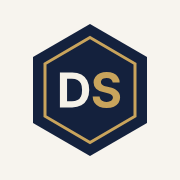
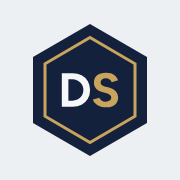
Bring design changes to the site
Source commit: ef3cd87

diff --git a/assets/styles.css b/assets/styles.css
@@ -3,9 +3,11 @@
   --ink-soft: #3A4660;
   --brass: #C9A45C;
   --brass-deep: #A8843F;
-  --paper: #F7F4EE;
-  --line: #DDD5C4;
-  --sans: "Inter", "Helvetica Neue", Arial, sans-serif;
+  --brass-text: #7A5E23;
+  --paper: #EDF0F3;
+  --paper-raised: #F5F7F9;
+  --line: #CCD3DC;
+  --sans: "Figtree", "Helvetica Neue", Arial, sans-serif;
 }
 
 * { box-sizing: border-box; }
@@ -19,10 +21,15 @@ body {
 }
 img, svg { display: block; max-width: 100%; }
 a { color: inherit; }
+::selection { background: var(--brass); color: var(--ink); }
+:focus-visible { outline: 2px solid var(--ink); outline-offset: 3px; }
+h1, h2, h3, .lede { text-wrap: balance; }
+html { scrollbar-color: var(--line) var(--paper); }
+@media (prefers-reduced-motion: reduce) { * { transition: none !important; } }
 
 .wrap { max-width: 1120px; margin: 0 auto; padding: 0 24px; }
 section { padding: 100px 0; }
-.eyebrow { font-size: .78rem; letter-spacing: .22em; text-transform: uppercase; color: var(--brass-deep); font-weight: 600; margin: 0 0 20px; }
+.eyebrow { font-size: .78rem; letter-spacing: .22em; text-transform: uppercase; color: var(--brass-text); font-weight: 600; margin: 0 0 20px; }
 .eyebrow a { text-decoration: none; }
 
 /* Home: logo, contact, projects link */
@@ -33,7 +40,7 @@ section { padding: 100px 0; }
   position: relative; overflow: hidden; z-index: 0;
 }
 
-.home .logo { width: min(420px, 86vw); height: auto; }
+.home .logo { width: min(640px, 90vw); height: auto; }
 .home footer { position: absolute; bottom: 24px; left: 0; right: 0; font-size: .75rem; color: var(--ink-soft); }
 .home footer a { text-decoration: none; }
 
@@ -42,6 +49,10 @@ section { padding: 100px 0; }
 .links { display: flex; flex-direction: column; align-items: center; gap: 16px; font-size: 1rem; text-align: center; }
 .links a, .links span { text-decoration: none; letter-spacing: .02em; }
 .item { color: var(--ink); }
+button.item { background: none; border: 0; border-bottom: 1px solid var(--line); font: inherit; letter-spacing: .02em; cursor: pointer; padding: 0 0 2px; }
+.contact-out { font-size: .95rem; color: var(--ink-soft); }
+.contact-out:empty { display: none; }
+.tagline { margin: 28px 0 0; color: var(--ink-soft); font-size: 1.05rem; text-wrap: balance; }
 .item.is-link { border-bottom: 1px solid var(--line); padding-bottom: 2px; transition: border-color .2s; }
 .item.is-link:hover { border-color: var(--brass); }
 .page-contact { padding-bottom: 72px; }
@@ -52,45 +63,34 @@ section { padding: 100px 0; }
 
 /* Projects */
 .page-head { display: flex; align-items: center; justify-content: space-between; padding-top: 28px; padding-bottom: 28px; border-bottom: 1px solid var(--line); }
-.page-head img { width: 180px; height: auto; }
-.page-head a.back { font-size: .78rem; font-weight: 600; letter-spacing: .22em; text-transform: uppercase; color: var(--brass-deep); text-decoration: none; }
-.page-title { font-weight: 600; font-size: clamp(2rem, 4.5vw, 2.6rem); margin: 0 0 40px; letter-spacing: -.02em; }
+.page-head img { width: 260px; height: auto; }
+.page-head a.back { font-size: .78rem; font-weight: 600; letter-spacing: .22em; text-transform: uppercase; color: var(--brass-text); text-decoration: none; }
+.page-title { line-height: 1.15; font-weight: 600; font-size: clamp(2rem, 4.5vw, 2.6rem); margin: 0 0 40px; letter-spacing: -.02em; }
 .projects-list { display: grid; grid-template-columns: repeat(auto-fill, minmax(min(320px, 100%), 1fr)); gap: 24px; }
-.project { background: #F9F7F2; border: 1px solid var(--line); padding: 28px; }
+.project { background: var(--paper-raised); border: 1px solid var(--line); padding: 28px; }
 .project h2 { font-weight: 600; font-size: 1.2rem; margin: 0 0 8px; letter-spacing: -.01em; }
 .project p { margin: 0 0 14px; color: var(--ink-soft); font-size: .95rem; }
 .project-link { display: flex; flex-direction: column; text-decoration: none; color: inherit; transition: border-color .2s; }
-.project-link .more { margin-top: auto; padding-top: 6px; color: var(--brass-deep); font-size: .78rem; font-weight: 600; letter-spacing: .18em; text-transform: uppercase; }
+.project-link .more { margin-top: auto; padding-top: 6px; color: var(--brass-text); font-size: .78rem; font-weight: 600; letter-spacing: .18em; text-transform: uppercase; }
 .project-link:hover { border-color: var(--brass); }
 .project-link:hover .more { color: var(--ink); }
 
 /* Project landing pages */
-.nav-menu { position: relative; }
-.nav-menu summary { list-style: none; cursor: pointer; font-size: .78rem; font-weight: 600; letter-spacing: .22em; text-transform: uppercase; color: var(--brass-deep); display: flex; align-items: center; gap: 8px; user-select: none; }
-.nav-menu summary::-webkit-details-marker { display: none; }
-.nav-menu summary::after { content: ""; width: 6px; height: 6px; border-right: 1.5px solid currentColor; border-bottom: 1.5px solid currentColor; transform: translateY(-2px) rotate(45deg); transition: transform .2s; }
-.nav-menu[open] summary::after { transform: translateY(1px) rotate(-135deg); }
-.nav-menu summary:hover { color: var(--ink); }
-.nav-menu ul { position: absolute; right: 0; top: calc(100% + 14px); z-index: 20; list-style: none; margin: 0; padding: 6px 0; min-width: 240px; background: #F9F7F2; border: 1px solid var(--line); box-shadow: 0 10px 30px rgba(20, 33, 61, .08); }
-.nav-menu li a { display: block; padding: 10px 20px; text-decoration: none; color: var(--ink); font-size: .95rem; white-space: nowrap; }
-.nav-menu li a:hover, .nav-menu li a:focus-visible { background: var(--paper); color: var(--brass-deep); }
-.nav-menu li:first-child { border-bottom: 1px solid var(--line); margin-bottom: 6px; padding-bottom: 6px; }
-.nav-menu li:first-child a { font-size: .78rem; font-weight: 600; letter-spacing: .18em; text-transform: uppercase; color: var(--brass-deep); }
 
 .project-hero { max-width: 760px; margin-bottom: 56px; }
 .project-hero .page-title { margin-bottom: 16px; }
-.status { display: inline-block; font-size: .72rem; font-weight: 600; letter-spacing: .16em; text-transform: uppercase; color: var(--brass-deep); border: 1px solid var(--brass); padding: 4px 10px; margin: 0 6px 20px 0; }
+.status { display: inline-block; font-size: .72rem; font-weight: 600; letter-spacing: .16em; text-transform: uppercase; color: var(--brass-text); border: 1px solid var(--brass); padding: 4px 10px; margin: 0 6px 20px 0; }
 .lede { font-size: 1.2rem; line-height: 1.55; color: var(--ink); margin: 0; }
 .detail-grid { display: grid; grid-template-columns: minmax(0, 1fr) 300px; gap: 56px; align-items: start; }
 .detail-block + .detail-block { margin-top: 40px; }
-.detail-block h2 { font-size: .78rem; font-weight: 600; letter-spacing: .22em; text-transform: uppercase; color: var(--brass-deep); margin: 0 0 14px; }
+.detail-block h2 { font-size: .78rem; font-weight: 600; letter-spacing: .22em; text-transform: uppercase; color: var(--brass-text); margin: 0 0 14px; }
 .feature-list { list-style: none; margin: 0; padding: 0; border-top: 1px solid var(--line); }
 .feature-list li { padding: 12px 0 12px 22px; border-bottom: 1px solid var(--line); color: var(--ink-soft); position: relative; }
 .feature-list li::before { content: ""; position: absolute; left: 2px; top: 1.15em; width: 8px; height: 8px; border: 1.5px solid var(--brass); transform: rotate(45deg); }
-.note { margin: 40px 0 0; padding: 16px 20px; border-left: 2px solid var(--brass); background: #F9F7F2; color: var(--ink-soft); font-size: .95rem; }
-.facts { background: #F9F7F2; border: 1px solid var(--line); padding: 8px 24px; }
+.note { margin: 40px 0 0; padding: 16px 20px; border: 1px solid var(--brass); background: var(--paper-raised); color: var(--ink-soft); font-size: .95rem; }
+.facts { background: var(--paper-raised); border: 1px solid var(--line); padding: 8px 24px; }
 .facts dl { margin: 0; }
-.facts dt { font-size: .72rem; font-weight: 600; letter-spacing: .18em; text-transform: uppercase; color: var(--brass-deep); padding-top: 16px; }
+.facts dt { font-size: .72rem; font-weight: 600; letter-spacing: .18em; text-transform: uppercase; color: var(--brass-text); padding-top: 16px; }
 .facts dd { margin: 4px 0 0; padding-bottom: 16px; color: var(--ink); border-bottom: 1px solid var(--line); }
 .facts dd:last-child { border-bottom: 0; }
 @media (max-width: 860px) {
@@ -108,5 +108,6 @@ section { padding: 100px 0; }
 }
 @media (max-width: 520px) {
   .wrap { padding-left: 16px; padding-right: 16px; }
-  .page-head img { width: 140px; }
+  .page-head { flex-wrap: wrap; gap: 14px 24px; }
+  .page-head img { width: min(320px, 100%); }
 }

diff --git a/assets/contact.js b/assets/contact.js
@@ -1,13 +1,25 @@
-// Make "Contact us" clickable without putting the real address in the page source:
-// the mailto: link is only assembled from its separate parts when a visitor clicks.
+// Make "Contact us" usable without putting the real address in the page source:
+// the address is only assembled from its separate parts when a visitor clicks.
+// A click opens their mail app AND shows the address (copied if allowed), so it
+// still works when no mail client is configured.
 document.querySelectorAll('.item[data-user]').forEach(function (el) {
-  var link = document.createElement('a');
-  link.className = 'item is-link';
-  link.href = '#';
-  link.textContent = el.textContent;
-  link.addEventListener('click', function (e) {
-    e.preventDefault();
-    window.location.href = 'mailto:' + el.dataset.user + '@' + el.dataset.domain;
+  var btn = document.createElement('button');
+  btn.type = 'button';
+  btn.className = 'item is-link';
+  btn.textContent = el.textContent;
+  var out = document.createElement('span');
+  out.className = 'item contact-out';
+  out.setAttribute('role', 'status');
+  btn.addEventListener('click', function () {
+    var addr = el.dataset.user + '@' + el.dataset.domain;
+    out.textContent = addr;
+    if (navigator.clipboard && navigator.clipboard.writeText) {
+      navigator.clipboard.writeText(addr).then(function () {
+        out.textContent = addr + ' (copied)';
+      }, function () {});
+    }
+    window.location.href = 'mailto:' + addr;
   });
-  el.replaceWith(link);
+  el.replaceWith(btn);
+  btn.after(out);
 });

diff --git a/index.html b/index.html
@@ -3,19 +3,20 @@
 <head>
   <meta charset="utf-8">
   <meta name="viewport" content="width=device-width, initial-scale=1">
-  <title>DregSoft</title>
-  <meta name="description" content="DregSoft">
+  <title>DregSoft — software for live audio</title>
+  <meta name="description" content="DregSoft makes software for live-audio and show-control work.">
   <link rel="icon" type="image/svg+xml" href="assets/favicon.svg">
   <link rel="icon" type="image/png" sizes="32x32" href="assets/favicon-32.png">
   <link rel="apple-touch-icon" href="assets/apple-touch-icon.png">
   <link rel="preconnect" href="https://fonts.googleapis.com">
   <link rel="preconnect" href="https://fonts.gstatic.com" crossorigin>
-  <link href="https://fonts.googleapis.com/css2?family=Inter:wght@400;600&display=swap" rel="stylesheet">
+  <link href="https://fonts.googleapis.com/css2?family=Figtree:wght@400;600&display=swap" rel="stylesheet">
   <link rel="stylesheet" href="assets/styles.css">
 </head>
 <body>
   <main class="home">
     <h1 style="margin:0"><img class="logo" src="logos/final/dregsoft-logo.svg" alt="DregSoft"></h1>
+    <p class="tagline">Software for live-audio and show-control work.</p>
     <div class="rule" aria-hidden="true"></div>
     <nav class="links">
       <a class="item is-link" href="projects.html">Projects</a>

diff --git a/projects/mqconduit.html b/projects/mqconduit.html
@@ -10,20 +10,13 @@
   <link rel="apple-touch-icon" href="../assets/apple-touch-icon.png">
   <link rel="preconnect" href="https://fonts.googleapis.com">
   <link rel="preconnect" href="https://fonts.gstatic.com" crossorigin>
-  <link href="https://fonts.googleapis.com/css2?family=Inter:wght@400;600&display=swap" rel="stylesheet">
+  <link href="https://fonts.googleapis.com/css2?family=Figtree:wght@400;600&display=swap" rel="stylesheet">
   <link rel="stylesheet" href="../assets/styles.css">
 </head>
 <body>
   <header class="wrap page-head">
     <a href="../index.html"><img src="../logos/final/dregsoft-logo.svg" alt="DregSoft home"></a>
-    <details class="nav-menu">
-      <summary>Projects</summary>
-      <ul>
-        <li><a href="../projects.html">All projects</a></li>
-        <li><a href="console-converter.html">Console Converter</a></li>
-        <li><a href="yamaha-channel-reorder.html">Yamaha Channel Reorder</a></li>
-      </ul>
-    </details>
+    <a class="back" href="../projects.html">&larr; All projects</a>
   </header>
 
   <main>
@@ -84,6 +77,5 @@
   </svg>
 
   <script src="../assets/contact.js"></script>
-  <script src="../assets/menu.js"></script>
 </body>
 </html>

diff --git a/projects/console-converter.html b/projects/console-converter.html
@@ -10,20 +10,13 @@
   <link rel="apple-touch-icon" href="../assets/apple-touch-icon.png">
   <link rel="preconnect" href="https://fonts.googleapis.com">
   <link rel="preconnect" href="https://fonts.gstatic.com" crossorigin>
-  <link href="https://fonts.googleapis.com/css2?family=Inter:wght@400;600&display=swap" rel="stylesheet">
+  <link href="https://fonts.googleapis.com/css2?family=Figtree:wght@400;600&display=swap" rel="stylesheet">
   <link rel="stylesheet" href="../assets/styles.css">
 </head>
 <body>
   <header class="wrap page-head">
     <a href="../index.html"><img src="../logos/final/dregsoft-logo.svg" alt="DregSoft home"></a>
-    <details class="nav-menu">
-      <summary>Projects</summary>
-      <ul>
-        <li><a href="../projects.html">All projects</a></li>
-        <li><a href="mqconduit.html">MQConduit</a></li>
-        <li><a href="yamaha-channel-reorder.html">Yamaha Channel Reorder</a></li>
-      </ul>
-    </details>
+    <a class="back" href="../projects.html">&larr; All projects</a>
   </header>
 
   <main>
@@ -84,6 +77,5 @@
   </svg>
 
   <script src="../assets/contact.js"></script>
-  <script src="../assets/menu.js"></script>
 </body>
 </html>

diff --git a/projects/yamaha-channel-reorder.html b/projects/yamaha-channel-reorder.html
@@ -10,20 +10,13 @@
   <link rel="apple-touch-icon" href="../assets/apple-touch-icon.png">
   <link rel="preconnect" href="https://fonts.googleapis.com">
   <link rel="preconnect" href="https://fonts.gstatic.com" crossorigin>
-  <link href="https://fonts.googleapis.com/css2?family=Inter:wght@400;600&display=swap" rel="stylesheet">
+  <link href="https://fonts.googleapis.com/css2?family=Figtree:wght@400;600&display=swap" rel="stylesheet">
   <link rel="stylesheet" href="../assets/styles.css">
 </head>
 <body>
   <header class="wrap page-head">
     <a href="../index.html"><img src="../logos/final/dregsoft-logo.svg" alt="DregSoft home"></a>
-    <details class="nav-menu">
-      <summary>Projects</summary>
-      <ul>
-        <li><a href="../projects.html">All projects</a></li>
-        <li><a href="mqconduit.html">MQConduit</a></li>
-        <li><a href="console-converter.html">Console Converter</a></li>
-      </ul>
-    </details>
+    <a class="back" href="../projects.html">&larr; All projects</a>
   </header>
 
   <main>
@@ -84,6 +77,5 @@
   </svg>
 
   <script src="../assets/contact.js"></script>
-  <script src="../assets/menu.js"></script>
 </body>
 </html>

diff --git a/projects.html b/projects.html
@@ -4,12 +4,13 @@
   <meta charset="utf-8">
   <meta name="viewport" content="width=device-width, initial-scale=1">
   <title>Projects — DregSoft</title>
+  <meta name="description" content="Software from DregSoft for live-audio and show-control work: MQConduit, Console Converter and Yamaha Channel Reorder. Not yet publicly available.">
   <link rel="icon" type="image/svg+xml" href="assets/favicon.svg">
   <link rel="icon" type="image/png" sizes="32x32" href="assets/favicon-32.png">
   <link rel="apple-touch-icon" href="assets/apple-touch-icon.png">
   <link rel="preconnect" href="https://fonts.googleapis.com">
   <link rel="preconnect" href="https://fonts.gstatic.com" crossorigin>
-  <link href="https://fonts.googleapis.com/css2?family=Inter:wght@400;600&display=swap" rel="stylesheet">
+  <link href="https://fonts.googleapis.com/css2?family=Figtree:wght@400;600&display=swap" rel="stylesheet">
   <link rel="stylesheet" href="assets/styles.css">
 </head>
 <body>
